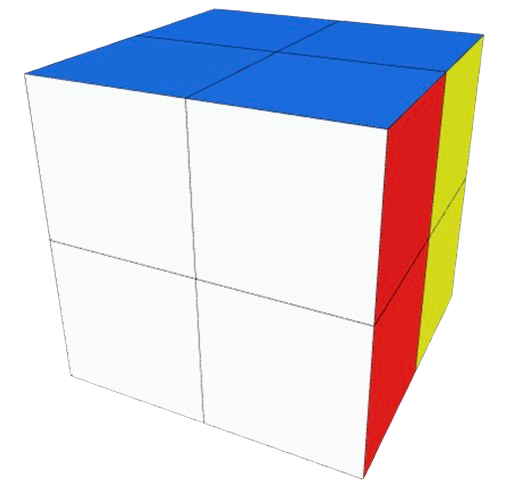
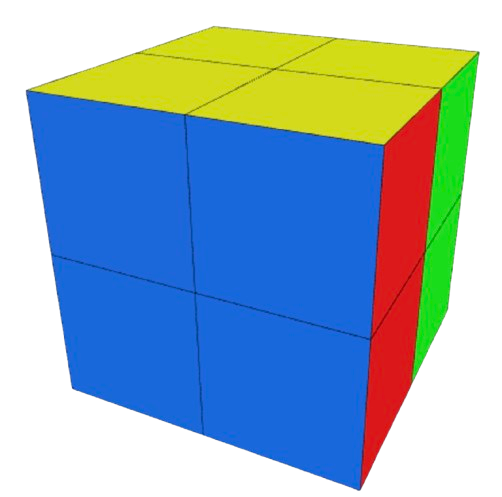
Added OLL practice to 2x2
Additionally, added images to PLL/OLL speed modes in general

diff --git a/src/js/sketch.js b/src/js/sketch.js
@@ -108,7 +108,8 @@ export default function (p) {
 	let colororder = ["", "r", "o", "y", "g", "b", "w"];
 	let colororder2 = ["", "red", "orange", "yellow", "green", "blue", "white"];
 	let allplls = {1: ["Ua", "Ub", "Z", "H"], 2: ["Aa", "Ab", "F", "Ja", "Jb", "Ra", "Rb", "T", "Ga", "Gb", "Gc", "Gd"], 3: ["E", "Na", "Nb", "V", "Y"], 4: ["AD", "DD", "AU", "AA", "DU"],
-		5:[1,2,3,4,17,18,19,20], 6:[5,6,7,8,9,10,11,12,28,29,30,31,32,35,36,37,38,41,42,43,44,47,48,49,50], 7:[13,14,15,16,33,34,39,40,45,46,51,52,55,56,57], 8:[21,22,23,24,25,26,27]
+		5:[1,2,3,4,17,18,19,20], 6:[5,6,7,8,9,10,11,12,28,29,30,31,32,35,36,37,38,41,42,43,44,47,48,49,50], 7:[13,14,15,16,33,34,39,40,45,46,51,52,55,56,57],
+		8:[21,22,23,24,25,26,27], 9:["h","pi","antisune","sune","l","t","u"]
 	};
 	let LEFTMOD;
 	let RIGHTMOD;
@@ -673,7 +674,7 @@ p.setup = () => {
 			document.getElementById("s_checkbox" + plltype).appendChild(img); // Append the image to the parent
 	
 			// Add a <br> element for line breaks every 4 iterations
-			if ((a + 1) % ((isMobile() && isthin || plltype == 4) ? 3 : plltype >= 4? 10 : 4) === 0) {
+			if ((a + 1) % ((isMobile() && isthin || plltype == 4) ? 3 : plltype == 9? 2 : plltype >= 4 ? 10 : 4) === 0) {
 				const br = document.createElement("br");
 				document.getElementById("s_checkbox" + plltype).appendChild(br);
 				SPACE.push(br);
@@ -1304,8 +1305,8 @@ setInterval(() => {
 		}
 	}
 	let tempalg = [];
-	const possible = pracmode == "OLL" ? Array.from({ length: 57 }, (_, i) => (i + 1).toString()) : DIM == 50 ? ["Aa", "Ab", "F", "Ja", "Jb", "Ra", "Rb", "T", "Ga", "Gb", "Gc", "Gd", "E", "Na", 
-		"Nb", "V", "Y", "H", "Ua", "Ub", "Z"] : ["AA", "AD", "DD", "AU", "DU"];
+	const possible = pracmode == "OLL" ? (DIM == 50 ?Array.from({ length: 57 }, (_, i) => (i + 1).toString()) : allplls[9]) : 
+	DIM == 50 ? ["Aa", "Ab", "F", "Ja", "Jb", "Ra", "Rb", "T", "Ga", "Gb", "Gc", "Gd", "E", "Na", "Nb", "V", "Y", "H", "Ua", "Ub", "Z"] : ["AA", "AD", "DD", "AU", "DU"];
 	PLLS.forEach((checkbox) => {
 		if (checkbox.checked() && possible.includes(checkbox.elt.querySelector('span').innerText.substring(1))) {
 		  let labelText = checkbox.elt.querySelector('span').innerText;		  
@@ -2659,7 +2660,7 @@ function regular(nocustom){
 	setDisplay("inline", ["shuffle_div", "reset_div", "solve", "undo", "redo", "speed", "slider_div", "outermoves", "outertime", "input", "delayuseless"]);
 	setDisplay("none", ["or_instruct3", "points_par", "readybot", "mode4", "mode5", "mode6", "mode8", "alltimes", "ID3", "s_easy", "s_medium", "s_OLL", "s_PLL", "m_34", "m_4", 
 		"m_high", "link1", "timegone", "reset2_div", "reset3_div", "giveup", "giveup2", "hint", "cube", "custom2", "custom4", "spacetime", "stop_div", "modarrow", "s_bot", 
-		"s_high", "s_RACE", "s_RACE2", "settings1", "loginform", "highscore", "c_INSTRUCT", "c_week", "challengeback", "hotkey1", "s_prac", "s_prac2"]);
+		"s_high", "s_RACE", "s_RACE2", "settings1", "loginform", "highscore", "c_INSTRUCT", "c_week", "challengeback", "hotkey1", "s_prac", "s_prac2", "s_image"]);
 	setInnerHTML(["s_INSTRUCT", "s_instruct", "s_instruct2", "s_RACE3", "s_difficulty", "l_message"]);
 	if (ismid) {
 		setDisplay("none", ["or_instruct", "or_instruct2"]);
@@ -3076,12 +3077,10 @@ function speedmode()
 	if(DIM == 50) {
 		PLL.html("PLL Attack");
 		PLLPRAC.html("PLL Practice");
-		setDisplay("inline", ["s_ollprac"]);
 	}
 	else {
 		PLL.html("PBL Attack");
 		PLLPRAC.html("PBL Practice");
-		setDisplay("none", ["s_ollprac"]);
 	}
 	if(INPUT.value()[0] == "K")
 		INPUT.selected("Keyboard");
@@ -3410,6 +3409,7 @@ function easy()
 		for(var i=0; i<elements.length; i++) { 
 			elements[i].style.display='none';
 		}
+		setDisplay("none", ["s_image"]);
 		let total = 0;
 		for(let i = 0; i < ao5.length; i++)
 		{
@@ -3524,7 +3524,7 @@ function medium(){
 		}
 		canMan = false;
 		console.log("bruh", arr);
-		document.getElementById("s_instruct").innerHTML = "Use your beginner last layer techniques to solve it! <p style = 'font-size:12px;'>Suggested algorithm with unsolved layer in the top: <br>" + sugalg[rnd2] +  " </p>";
+		document.getElementById("s_instruct").innerHTML = "Use your beginner last layer techniques to solve it! <p style = 'font-size:15px;'>Suggested algorithm with unsolved layer in the top: <br>" + sugalg[rnd2] +  " </p>";
 		multipleEasy(0, 1);
 	}
 	else if(medstep == 4)
@@ -3566,7 +3566,7 @@ function medium(){
 	}
 }
 function togglePLL(action, arr) {
-	const parent = pracmode == "OLL" ? ["5","6","7","8"] : DIM == 100 ? ["4"] : [1,2,3];
+	const parent = pracmode == "OLL" ? (DIM == 100 ? ["9"] : ["5","6","7","8"]) : DIM == 100 ? ["4"] : [1,2,3];
 	if (action == "all") {
 		PLLS.forEach(el => {el.checked(true)})
 	} else if (action == "none") {
@@ -3589,7 +3589,8 @@ function selectPLL(mode) {
 	setDisplay(DIM == 100 && mode == "PLL"? "block": "none", ["s_prac2x2"]);
 	setDisplay(DIM == 50 && mode == "PLL"? "block": "none", ["s_prac3x3"]);
 	setDisplay(DIM == 50 && mode == "OLL"? "block": "none", ["s_prac3x3o"]);
-	if (mode == "OLL") {
+	setDisplay(DIM == 100 && mode == "OLL"? "block": "none", ["s_prac2x2o"]);
+	if (mode == "OLL" && DIM == 50) {
 		document.getElementById("cnv_div").style.display = "none";
 		document.getElementById("right").className = "col-xl-10 noselect";
 		canMan = false;
@@ -3623,7 +3624,9 @@ function practicePLL() {
 		let tempobj = pracmode == "OLL" ? olls : DIM == 50 ? obj2 : pbls;
 		changeArr(tempobj[rnd][1])
 		str = tempobj[rnd][0];
-		document.getElementById("s_instruct").innerHTML = "<p style = 'font-size:12px;'>" + str + "</p>";
+		document.getElementById("s_instruct").innerHTML = "<p style = 'font-size:15px;'>" + str + "</p>";
+		getEl("s_image").src = `images/${pracmode == "OLL" ? "OLL" : DIM == 50 ? "PLL" : "PBL"}/${rnd}.png`;
+		setDisplay("block", ["s_image"]);
 		shufflespeed = 2;
 		let rnd2 = Math.floor(Math.random()*4);
 		for(let i = 0; i < rnd2; i++)
@@ -3652,7 +3655,7 @@ function speedPLL()
 		let possible = ["Aa", "Ab", "F", "Ja", "Jb", "Ra", "Rb", "T", "Ga", "Gb", "Gc", "Gd", "E", "Na", 
 		"Nb", "V", "Y", "H", "Ua", "Ub", "Z"];
 		if(DIM == 100)
-			possible = ["AA", "AD", "DD", "Jb", "Y"];
+			possible = ["AD", "DD", "AU", "AA", "DU"];
 		let rnd = p.random(possible);
 		let str = "";
 		if(DIM == 50) 
@@ -3665,7 +3668,9 @@ function speedPLL()
 			changeArr(pbls[rnd][1])
 			str = pbls[rnd][0];
 		}
-		document.getElementById("s_instruct").innerHTML = "Move any layer to start time, solve the cube to stop it. <p style = 'font-size:12px;'>Suggested algorithm with unsolved layer in the top: <br>" + str +  " </p>";
+		document.getElementById("s_instruct").innerHTML = "<p style = 'font-size:15px;'>Suggested algorithm with unsolved layer in the top: <br>" + str +  " </p>";
+		getEl("s_image").src = `images/${DIM == 50 ? "PLL" : "PBL"}/${rnd}.png`;
+		setDisplay("block", ["s_image"]);
 		shufflespeed = 2;
 		let rnd2 = Math.floor(Math.random()*4);
 		for(let i = 0; i < rnd2; i++)
@@ -3696,7 +3701,7 @@ function speedOLL()
 		showSpeed();
 		timer.stop();
 		timer.reset();
-		let possible = ["21", "51", "45", "33", "37", "26", "27"];
+		let possible = allplls[9];
 		if(DIM == 50)
 		{
 			possible = [];
@@ -3709,7 +3714,9 @@ function speedOLL()
 		let str = "";
 		changeArr(olls[rnd][1])
 		str = olls[rnd][0];
-		document.getElementById("s_instruct").innerHTML = "Move any layer to start time, solve the cube to stop it. <p style = 'font-size:12px;'>Suggested algorithm with unsolved layer in the top: <br>" + str +  " </p>";
+		document.getElementById("s_instruct").innerHTML = "<p style = 'font-size:15px;'>Suggested algorithm with unsolved layer in the top: <br>" + str +  " </p>";
+		getEl("s_image").src = `images/OLL/${rnd}.png`;
+		setDisplay("block", ["s_image"]);
 		shufflespeed = 2;
 		let rnd2 = Math.floor(Math.random()*4);
 		for(let i = 0; i < rnd2; i++)
@@ -5320,7 +5327,7 @@ p.keyPressed = (event) => {
 		}
 	}
 	if(p.keyCode == 16){ //shift
-		console.log(pracalgs, PLLS)
+		console.log(pracmode)
 	}
 	if(p.keyCode == 9){ //tab
 		if (p.keyIsDown(p.SHIFT)) 

diff --git a/index.html b/index.html
@@ -375,6 +375,9 @@
 			<h5 id = "s_INSTRUCT" class = "noselect"></h5>
 			<p id = "s_instruct" class = "noselect"></p>
 			<p id = "s_instruct2" class = "noselect"></p>
+			<div style = "text-align: left">
+				<img id = "s_image"/>
+			</div>
 			<p id = "s_difficulty" class = "noselect"></p>
 			<div>
 				<p style = "display: inline;" id = "s_easy"></p>
@@ -431,6 +434,9 @@
 					<p id = "s_checkbox7"></p>
 					<h6>Cross on top</h6>
 					<p id = "s_checkbox8"></p>
+				</div>
+				<div id = "s_prac2x2o">
+					<p id = "s_checkbox9"></p>
 				</div>
 				<p id = "s_start"></p>
 			</div>

diff --git a/styles.css b/styles.css
@@ -120,6 +120,11 @@ button:hover {
     left: 5%;
     font-size: 30px;
 }
+#s_image {
+    height: 30%;
+    width: 30%;
+}
+
 .skinnyscore {
     margin:0px;
 }
